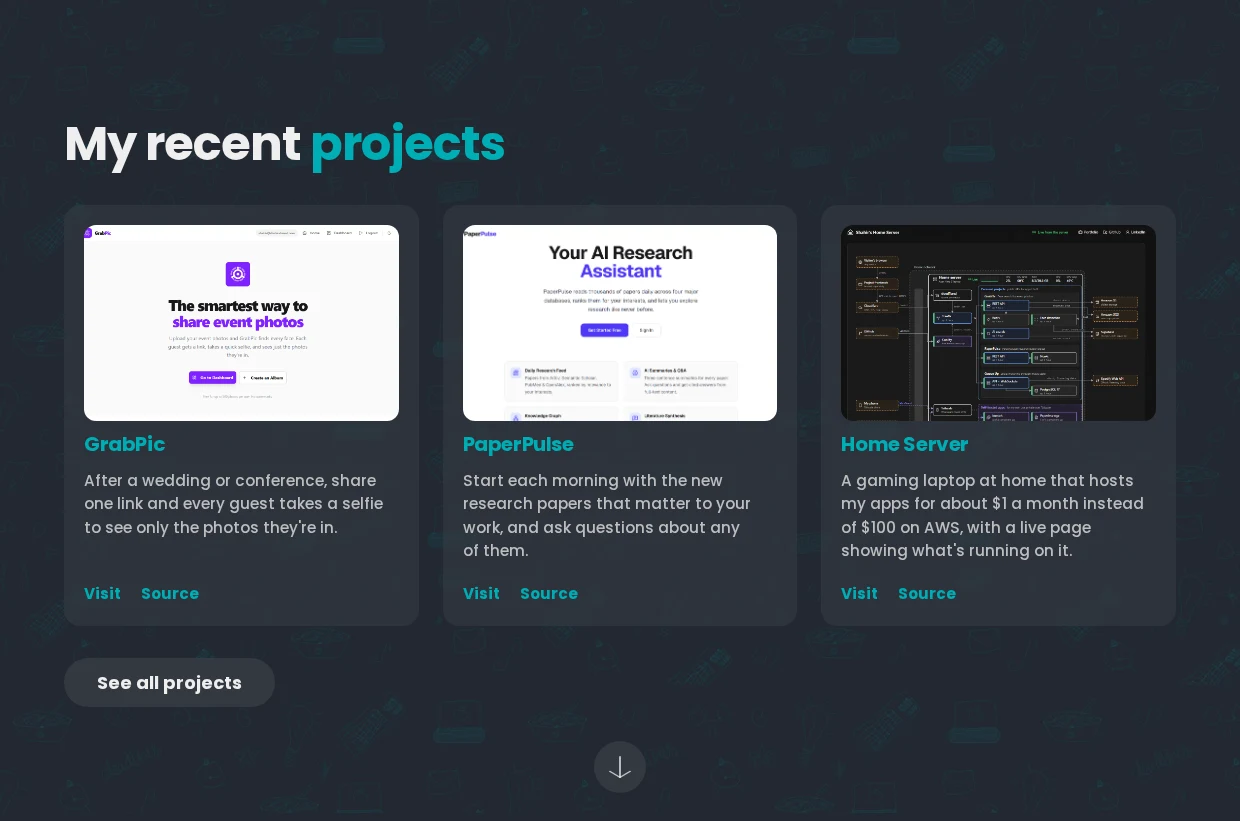
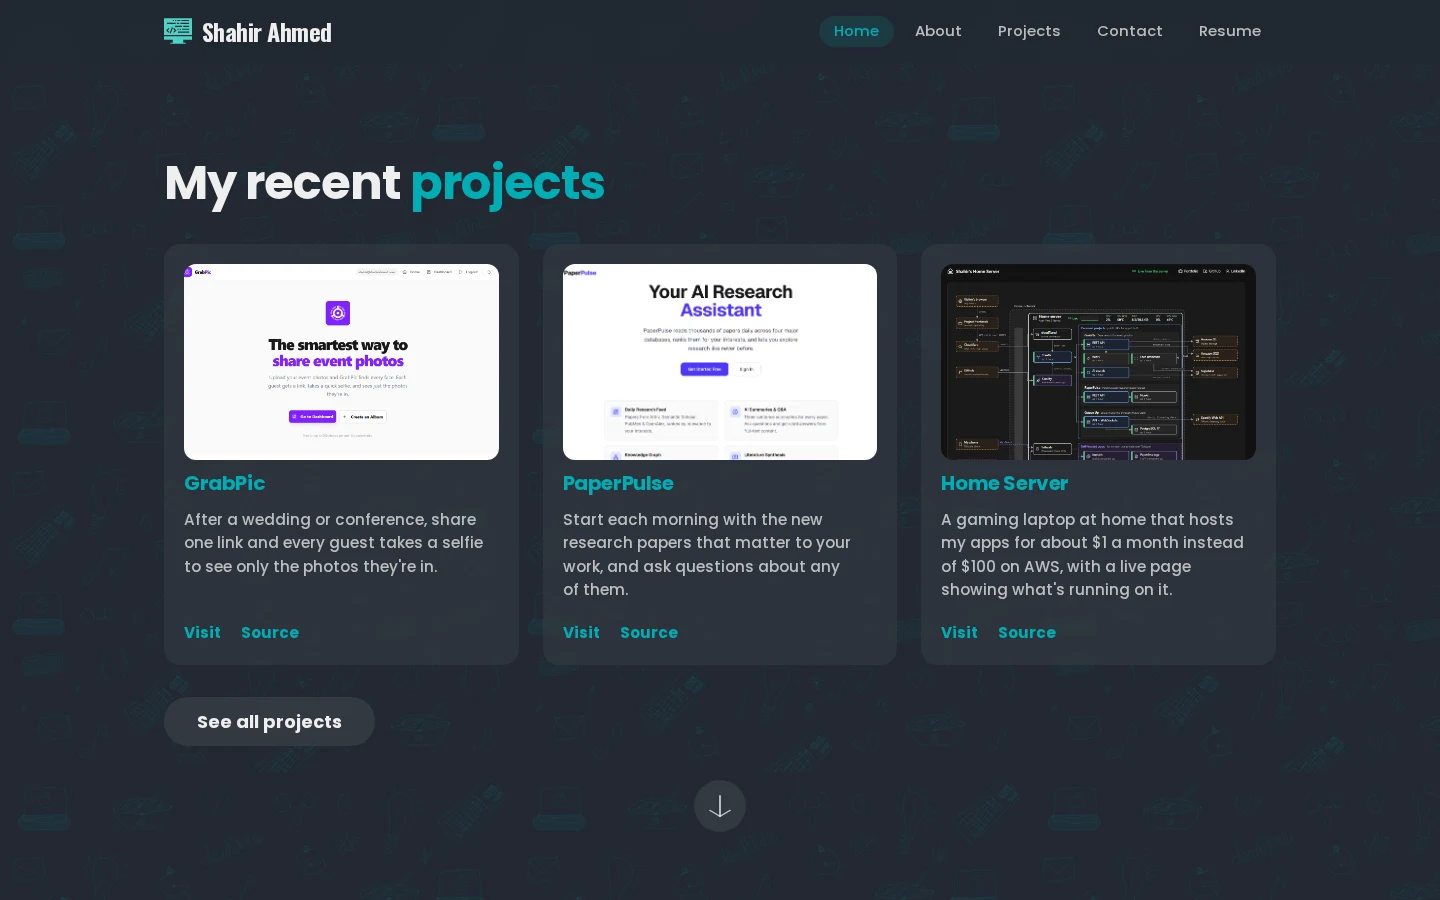
feat: enhance README with improved screenshot layout for desktop and mobile views

diff --git a/README.md b/README.md
@@ -14,24 +14,50 @@ The code behind [shahirahmed.com](https://www.shahirahmed.com), my personal webs
 
 ## Screenshots
 
-| About | Projects |
-| ----- | -------- |
-| ![About page](docs/screenshots/about.webp) | ![Projects page](docs/screenshots/projects.webp) |
-| **Featured projects on the home page** | **Contact** |
-| ![Featured projects on the home page](docs/screenshots/home-projects.webp) | ![Contact page](docs/screenshots/contact.webp) |
+### Desktop
 
-The layout adapts to phones as well:
+<table>
+  <tr>
+    <th width="50%" align="center">About</th>
+    <th width="50%" align="center">Projects</th>
+  </tr>
+  <tr>
+    <td align="center"><br /><img src="docs/screenshots/about.webp" alt="About page" width="350" hspace="14" /><br /><br /></td>
+    <td align="center"><br /><img src="docs/screenshots/projects.webp" alt="Projects page" width="350" hspace="14" /><br /><br /></td>
+  </tr>
+  <tr>
+    <th width="50%" align="center">Featured projects</th>
+    <th width="50%" align="center">Contact</th>
+  </tr>
+  <tr>
+    <td align="center"><br /><img src="docs/screenshots/home-projects.webp" alt="Featured projects on the home page" width="350" hspace="14" /><br /><br /></td>
+    <td align="center"><br /><img src="docs/screenshots/contact.webp" alt="Contact page" width="350" hspace="14" /><br /><br /></td>
+  </tr>
+</table>
 
-<p align="center">
-  <img src="docs/screenshots/mobile-home.webp" alt="Home page on mobile" width="250" />
-  <img src="docs/screenshots/mobile-about.webp" alt="About page on mobile" width="250" />
-  <img src="docs/screenshots/mobile-projects.webp" alt="Projects page on mobile" width="250" />
-</p>
+<br />
+
+### Mobile
+
+<table>
+  <tr>
+    <th width="33%" align="center">Home</th>
+    <th width="33%" align="center">About</th>
+    <th width="33%" align="center">Projects</th>
+  </tr>
+  <tr>
+    <td align="center"><br /><img src="docs/screenshots/mobile-home.webp" alt="Home page on mobile" width="210" hspace="15" /><br /><br /></td>
+    <td align="center"><br /><img src="docs/screenshots/mobile-about.webp" alt="About page on mobile" width="210" hspace="15" /><br /><br /></td>
+    <td align="center"><br /><img src="docs/screenshots/mobile-projects.webp" alt="Projects page on mobile" width="210" hspace="15" /><br /><br /></td>
+  </tr>
+</table>
+
+<br />
 
 ## Built with
 
 | Area | Tools |
-| ---- | ----- |
+| :--- | :---- |
 | Framework | Next.js 15 (App Router), React 18 |
 | UI | Material UI 6, custom CSS, React Icons |
 | Fonts | Poppins and Oswald through `next/font` |
